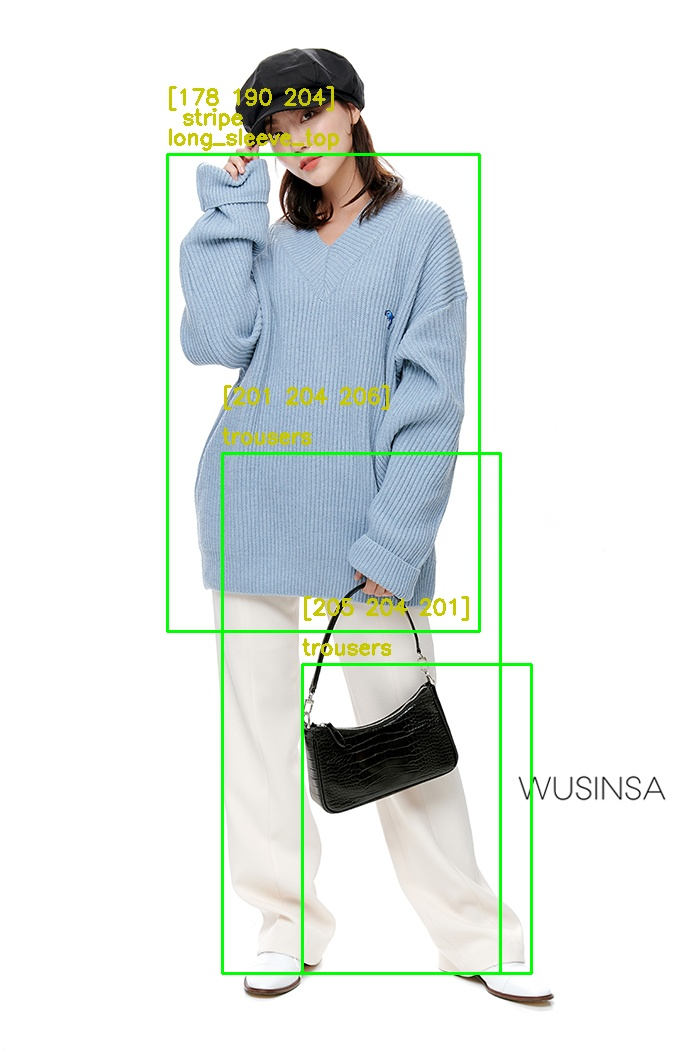
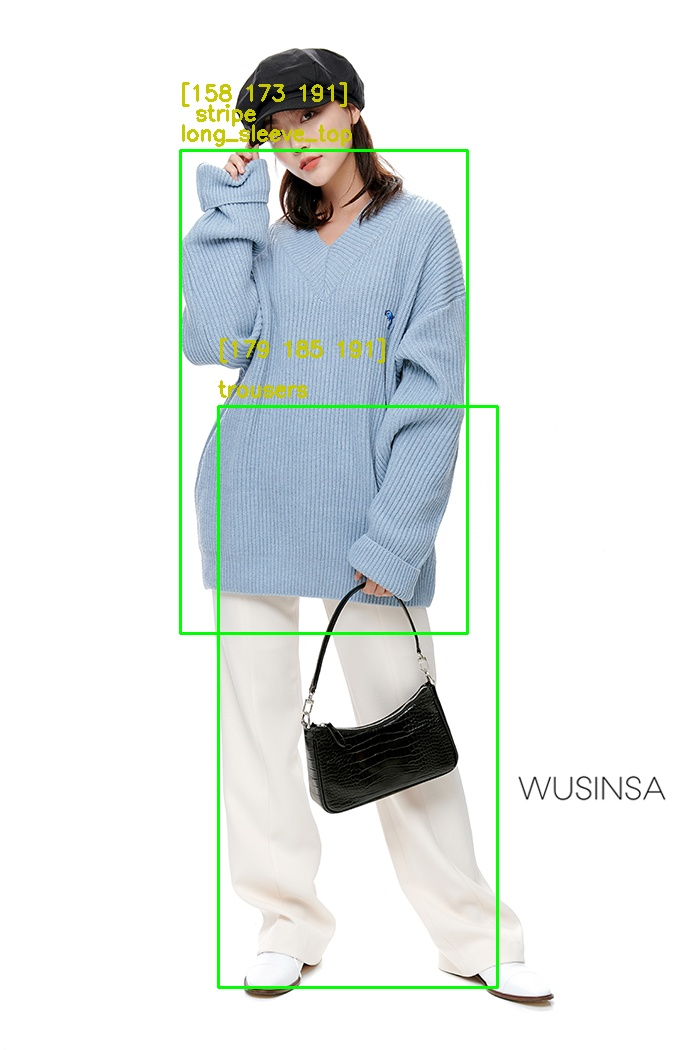
remove background for color

Changed region(s): [[0.21, 0.061, 0.78, 0.9448]]

diff --git a/fashion_detection/main_detect.py b/fashion_detection/main_detect.py
@@ -1,5 +1,6 @@
 from upper_lower_detection import *
 from upper_pattern_classification import *
+from remove_background import *
 from PIL import Image
 import os, cv2
 from torchvision import transforms
@@ -7,7 +8,16 @@ import numpy as np
 
 #RGB
 def get_color(img):
+    idx = []
     data = np.reshape(img, (-1,3))
+    for i in range(data.shape[0]):
+        if np.all(data[i] == [0,0,0]):
+            idx.append(i)
+    idx.reverse()
+    data = data.tolist()
+    for i in idx:
+        data.pop(i)
+
     data = np.float32(data)
     criteria = (cv2.TERM_CRITERIA_EPS + cv2.TERM_CRITERIA_MAX_ITER, 10, 1.0)
     flags = cv2.KMEANS_RANDOM_CENTERS
@@ -15,29 +25,30 @@ def get_color(img):
     return centers[0].astype(np.int32)[::-1]
 
 
-img_name = 'sss5'
+img_name = 'sss4'
 img_path = 'sample_images/'+img_name+'.jpg'
 
 img_path = os.path.join(img_path)
 img = Image.open(img_path).convert("RGB")
+
+back_removed_img = remove_background(img)
+
+cropping = upper_lower_detection(back_removed_img)
+
 trans = transforms.ToTensor()
 img = trans(img)
 img = img.mul(255).permute(1, 2, 0).byte().numpy()
 
 
-b, g, r = cv2.split(img)  # img파일을 b,g,r로 분리
-rimg = cv2.merge([r, g, b])
-
-
-cropping = upper_lower_detection(img)
 upper_categorise = [1,2]
 category_list = ['short_sleeve_top', 'long_sleeve_top','short_sleeve_outwear','long_sleeve_outwear','vest','sling','shorts','trousers','skirt','short_sleeve_dress','long_sleeve_dress','vest_dress','sling_dress' ]
-for idx in range(len(cropping)):
+for idx in range(2):
     cropped_img = cropping[idx]['cropping']
+    color = get_color(cropped_img)
     cropped_img = Image.fromarray(cropped_img)
     boxes = cropping[idx]['boxes']
     labels = cropping[idx]['label']
-    color = get_color(cropped_img)
+
 
     if cropping[idx]['label'] in upper_categorise:
         upper_pattern_pred = upper_pattern_detection(cropped_img)
@@ -51,12 +62,6 @@ for idx in range(len(cropping)):
 
     cv2.putText(img, name, (boxes[0], boxes[1]-10), cv2.FONT_HERSHEY_SIMPLEX, 0.7, (200, 200, 0), 2)
     cv2.putText(img, str(color), (boxes[0], boxes[1] - 50), cv2.FONT_HERSHEY_SIMPLEX, 0.7, (200, 200, 0), 2)
-
-
-
-trans = transforms.ToTensor()
-img = trans(img)
-img = img.mul(255).permute(1, 2, 0).byte().numpy()
 
 
 b, g, r = cv2.split(img)  # img파일을 b,g,r로 분리

diff --git a/fashion_detection/remove_background.py b/fashion_detection/remove_background.py
@@ -1,0 +1,58 @@
+from model import get_instance_segmentation_model
+
+
+from PIL import Image
+
+import time
+import os, cv2
+from tqdm import tqdm
+import random
+import numpy as np
+import torch
+import torch.utils.data
+import torchvision
+import torchvision.transforms as transforms
+
+
+def remove_background(img):
+    device = torch.device('cuda') if torch.cuda.is_available() else torch.device('cpu')
+    segmentation_model_path = './models/people_segmentation.pth'
+
+    num_classes = 2
+
+    model = get_instance_segmentation_model(num_classes)
+    model.load_state_dict(torch.load(segmentation_model_path))
+    model.to(device)
+    trans = transforms.ToTensor()
+    img = trans(img)
+
+    model.eval()
+    with torch.no_grad():
+        prediction = model([img.to(device)])
+
+    img = img.mul(255).permute(1, 2, 0).byte().numpy()
+    pred_mask = prediction[0]['masks'][0, 0].mul(255).byte().cpu().numpy()
+
+    if prediction[0]['scores'][0] < 0.8:
+        return img
+
+    pred = np.squeeze(pred_mask)
+    background = pred > 0.6 * 255
+    background = np.expand_dims(background, 2)
+    removed = background * img
+
+    return removed
+
+
+'''img_name = 'sss2'
+img_path = 'sample_images/'+img_name+'.jpg'
+
+img_path = os.path.join(img_path)
+img = Image.open(img_path).convert("RGB")
+pred = remove_background(img)
+
+b, g, r = cv2.split(pred)
+rimg = cv2.merge([r, g, b])
+cv2.imshow('img', rimg)
+cv2.waitKey(0)
+cv2.destroyAllWindows()'''

diff --git a/fashion_detection/model.py b/fashion_detection/model.py
@@ -2,6 +2,7 @@ import torch
 import torch.nn as nn
 import torchvision
 from torchvision.models.detection.faster_rcnn import FastRCNNPredictor
+from torchvision.models.detection.mask_rcnn import MaskRCNNPredictor
 from torchvision import models
 
 
@@ -18,5 +19,24 @@ def upper_pattern_detect_model(num_classes = 5):
     model = models.resnet50(pretrained=True)
     num_features = model.fc.in_features
     model.fc = nn.Linear(num_features, num_classes)
+
+    return model
+
+def get_instance_segmentation_model(num_classes):
+    # load an instance segmentation model pre-trained on COCO
+    model = torchvision.models.detection.maskrcnn_resnet50_fpn(pretrained=True)
+
+    # get the number of input features for the classifier
+    in_features = model.roi_heads.box_predictor.cls_score.in_features
+    # replace the pre-trained head with a new one
+    model.roi_heads.box_predictor = FastRCNNPredictor(in_features, num_classes)
+
+    # now get the number of input features for the mask classifier
+    in_features_mask = model.roi_heads.mask_predictor.conv5_mask.in_channels
+    hidden_layer = 256
+    # and replace the mask predictor with a new one
+    model.roi_heads.mask_predictor = MaskRCNNPredictor(in_features_mask,
+                                                       hidden_layer,
+                                                       num_classes)
 
     return model
